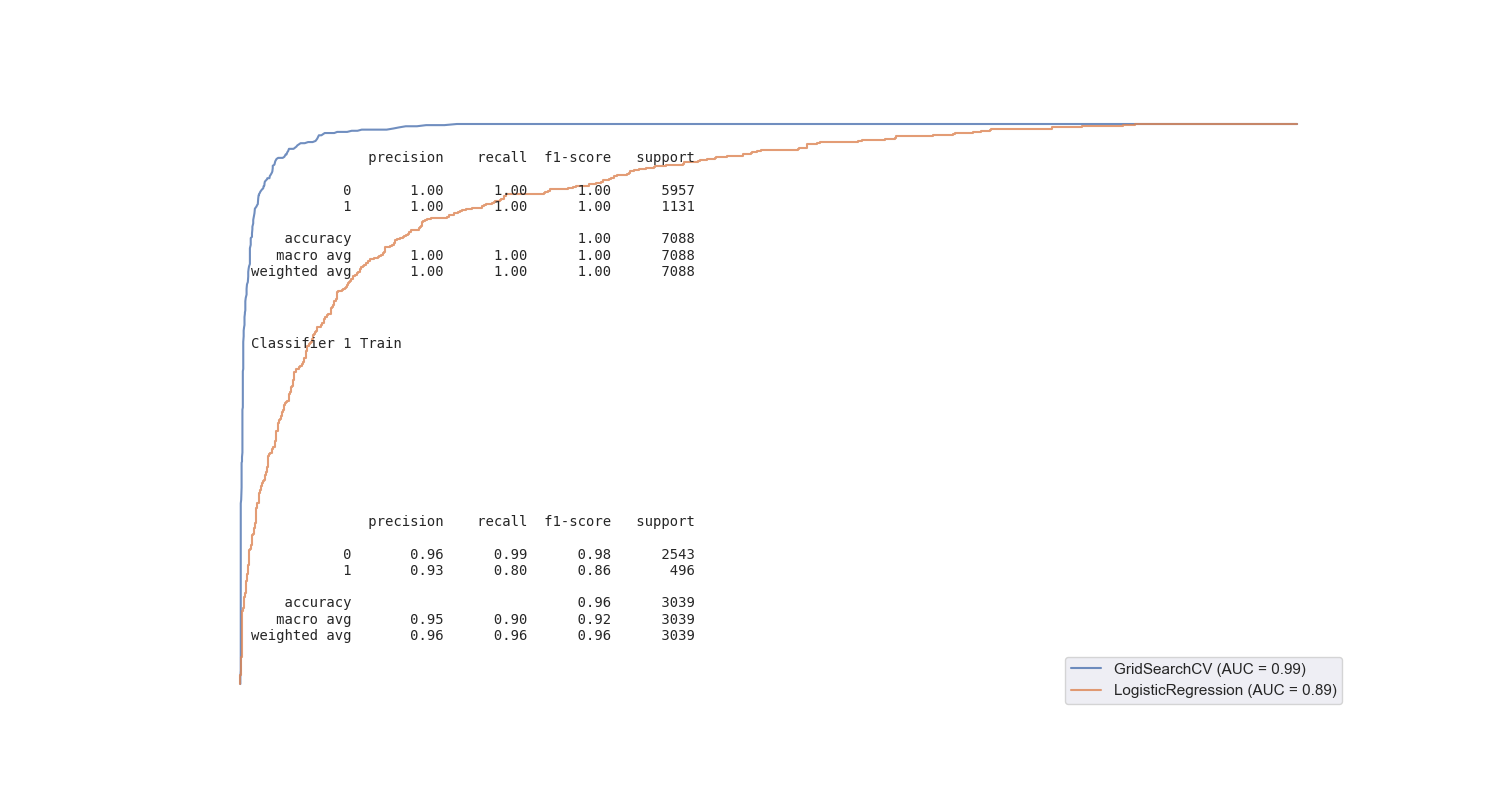
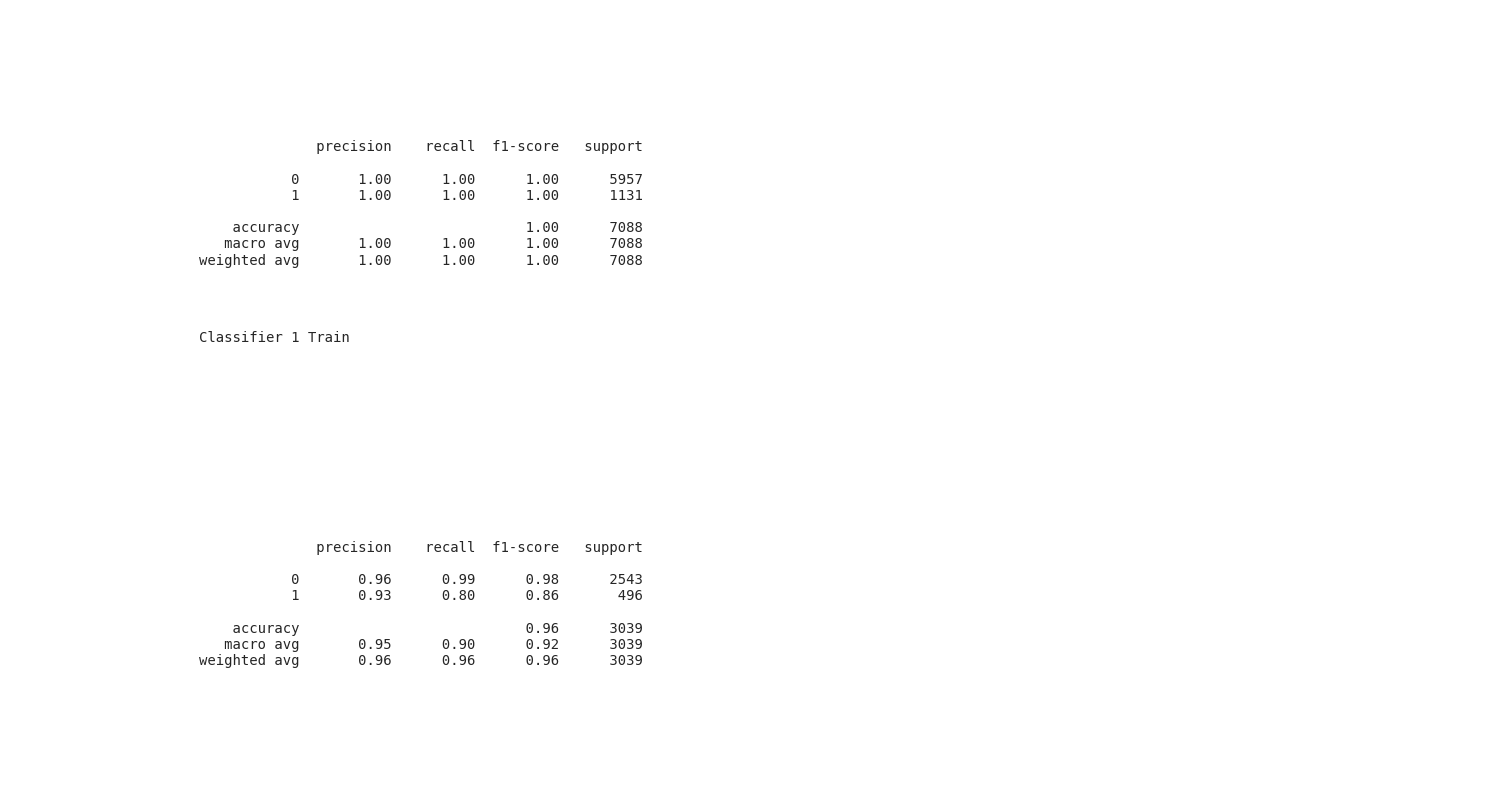
minor adjustments to avoid overlaying plots

diff --git a/churn_library.py b/churn_library.py
@@ -168,6 +168,7 @@ def classification_report_image(y_train,
     '''
 
     # Plot clf_1 classification report
+    plt.clf()
     plt.rc('figure', figsize=(8, 5))
     # test set
     plt.text(0.01, 1.25, str('Classifier 1 Test'), {
@@ -184,6 +185,7 @@ def classification_report_image(y_train,
     plt.savefig('./images/results/clf_1_classification_report')
 
     # Plot clf_2 classification report
+    plt.clf()
     plt.rc('figure', figsize=(8, 5))
     # test set
     plt.text(0.01, 1.25, str('Classifier 1 Test'), {
